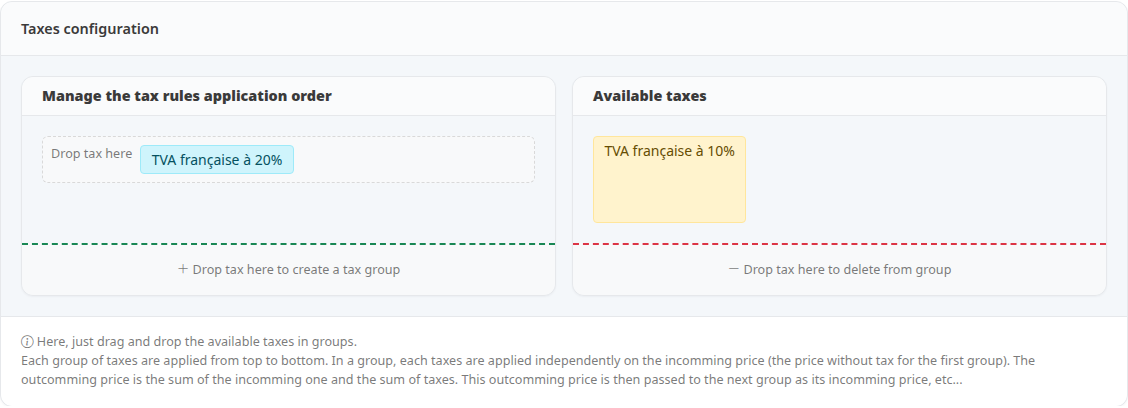
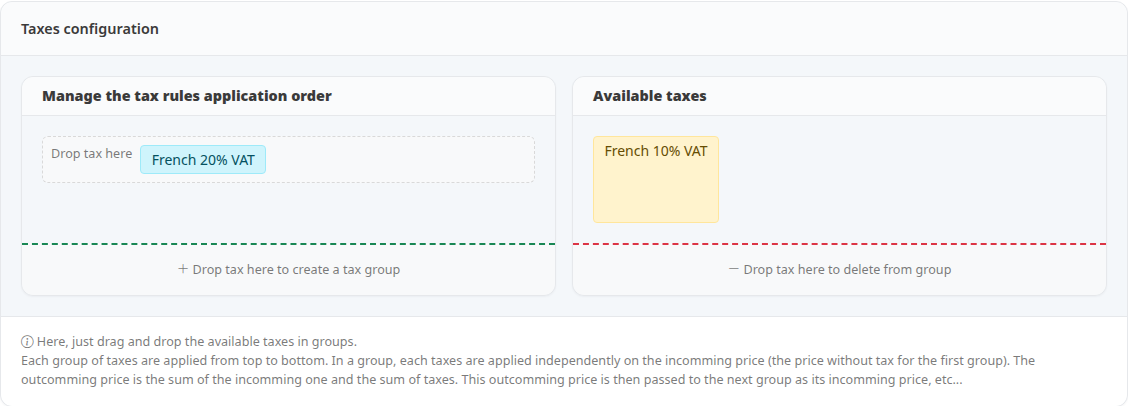
fix(settings): capture the tax rule screens with their content in each language

Changed region(s): [[0.5275, 0.3235, 0.6826, 0.5588], [0.1241, 0.3529, 0.2793, 0.4412]]

diff --git a/src/content/docs/en/settings/tax-rules.md b/src/content/docs/en/settings/tax-rules.md
@@ -62,13 +62,13 @@ The **Taxes and Tax rules** list holds the rules. The **Default** badge marks th
 
 1. In the **Taxes and Tax rules** list, click the pencil on the **Default Tax Rule** row.
 2. Click the **Taxes** tab.
-3. In **Choose a country**, choose **France métropolitaine**.
+3. In **Choose a country**, choose **France metropolitan**.
 
 Choosing the country selects the configuration that covers it: here **Configuration #1 (1 Countries)**.
 
 ![Choosing the configuration and the country](../../../../assets/captures/en/settings/tax-rules/rule-country.png)
 
-Further down, the **Taxes configuration** block shows the tax applied: **TVA française à 20%** is in the left column. **TVA française à 10%** is in **Available taxes**, so it is not applied.
+Further down, the **Taxes configuration** block shows the tax applied: **French 20% VAT** is in the left column. **French 10% VAT** is in **Available taxes**, so it is not applied.
 
 ![Taxes applied by the rule](../../../../assets/captures/en/settings/tax-rules/rule-taxes.png)
 
@@ -108,7 +108,7 @@ The tax is not applied to any product until it is placed in a rule.
 ## Step 5: put a tax in a rule
 
 1. Open the rule with the pencil, then the **Taxes** tab.
-2. In **Choose a country**, choose the country concerned, for example **France métropolitaine**.
+2. In **Choose a country**, choose the country concerned, for example **France metropolitan**.
 3. Drag the tax from **Available taxes** to **Manage the tax rules application order**. Dropped on an existing group (the **Drop tax here** area), it joins that group. Dropped on **Drop tax here to create a tax group**, it forms a new group, placed below.
 4. Click **Apply**.
 5. In the **Update tax rule taxes** window, click **Save tax rule taxes**.
